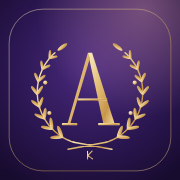
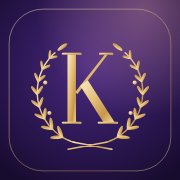
v41 : emblème au K de Kedidja dans la couronne d'olivier

Changed region(s): [[0.3333, 0.2778, 0.6667, 0.7222], [0.4722, 0.8333, 0.5278, 0.8889]]

diff --git a/index.html b/index.html
@@ -1054,7 +1054,7 @@ nav.tabs button[aria-current="page"],.trainnav button[aria-current="true"],.chip
     <button type="button" data-tab="accueil"><svg viewBox="0 0 24 24"><circle cx="12" cy="12" r="4"/><path d="M12 2v2M12 20v2M4.9 4.9l1.4 1.4M17.7 17.7l1.4 1.4M2 12h2M20 12h2M4.9 19.1l1.4-1.4M17.7 6.3l1.4-1.4"/></svg>Aujourd'hui</button>
     <button type="button" data-tab="train"><svg viewBox="0 0 24 24"><circle cx="12" cy="13" r="8"/><path d="M12 9v4l3 2M10 2h4"/></svg>S'entraîner</button>
     <button type="button" data-tab="progres"><svg viewBox="0 0 24 24"><path d="M4 19h16"/><path d="M5 15l4-5 4 3 6-7"/></svg>Progrès</button>
-    <button type="button" data-tab="coach"><svg viewBox="0 0 24 24"><path d="M12 5.5 8.2 17M12 5.5 15.8 17M9.6 13h4.8"/><path d="M5 8.5c-.6 4.4 1.2 8 5 10M19 8.5c.6 4.4-1.2 8-5 10"/></svg>Athéna</button>
+    <button type="button" data-tab="coach"><svg viewBox="0 0 24 24"><path d="M9.5 6v11M15.5 6l-5.6 6.3M11.4 10.9 16 17"/><path d="M5 8.5c-.6 4.4 1.2 8 5 10M19 8.5c.6 4.4-1.2 8-5 10"/></svg>Athéna</button>
     <button type="button" data-tab="plan"><svg viewBox="0 0 24 24"><rect x="3" y="5" width="18" height="16" rx="2"/><path d="M3 10h18M8 3v4M16 3v4"/></svg>Plan</button>
   </div>
 </nav>

diff --git a/sw.js b/sw.js
@@ -1,5 +1,5 @@
 // Garde l'appli disponible sans réseau (au gymnase, au stade…).
-const CACHE = 'parcours-v40';
+const CACHE = 'parcours-v41';
 const FILES = ['./', 'index.html', 'config.js', 'manifest.webmanifest', 'icons/athena.svg', 'icons/icon-192.png', 'icons/icon-512.png', 'icons/icon-maskable-512.png', 'icons/apple-touch-icon.png'];
 const FIXED = /fonts\.gstatic\.com|fonts\.googleapis\.com|www\.gstatic\.com\/firebasejs/;
 
